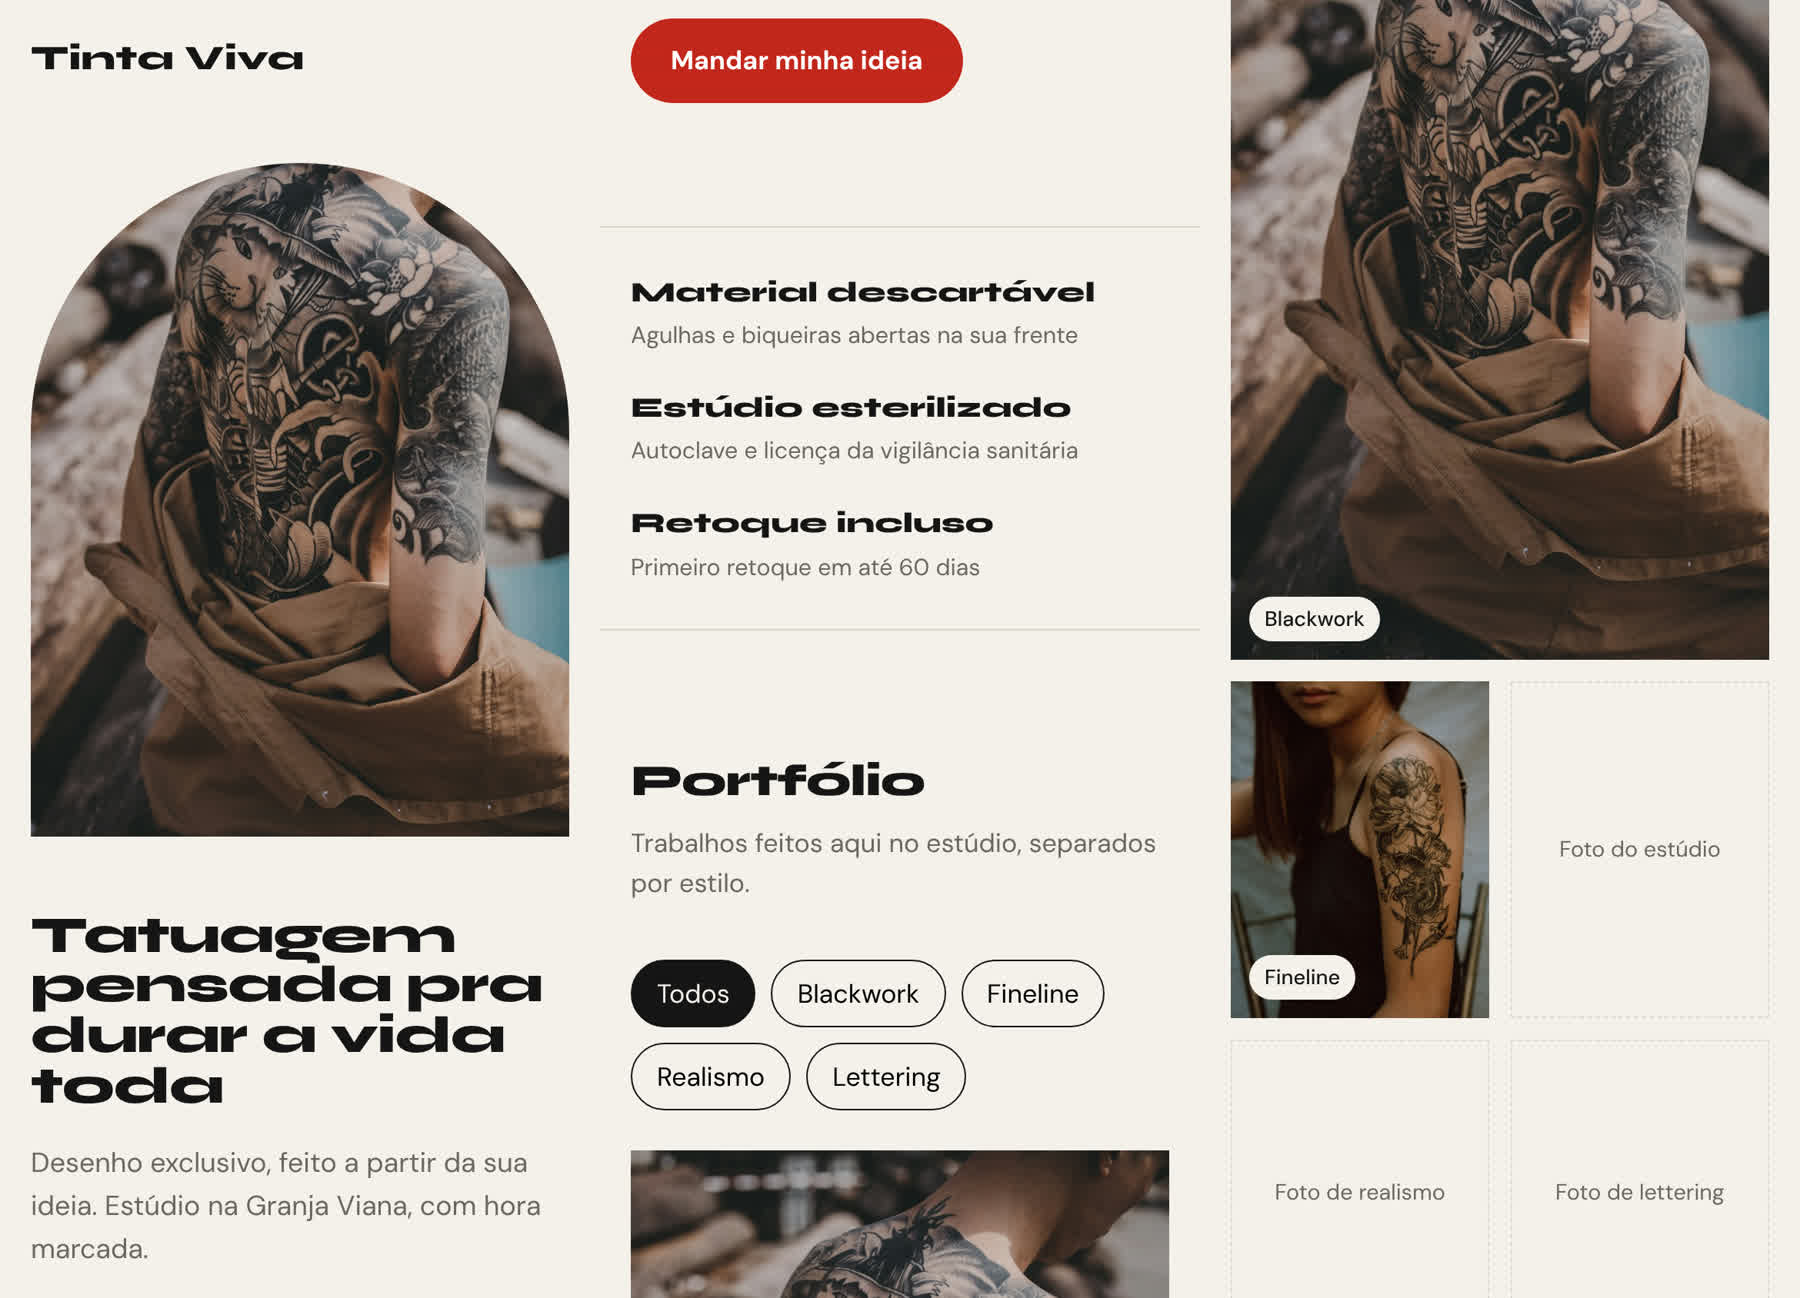
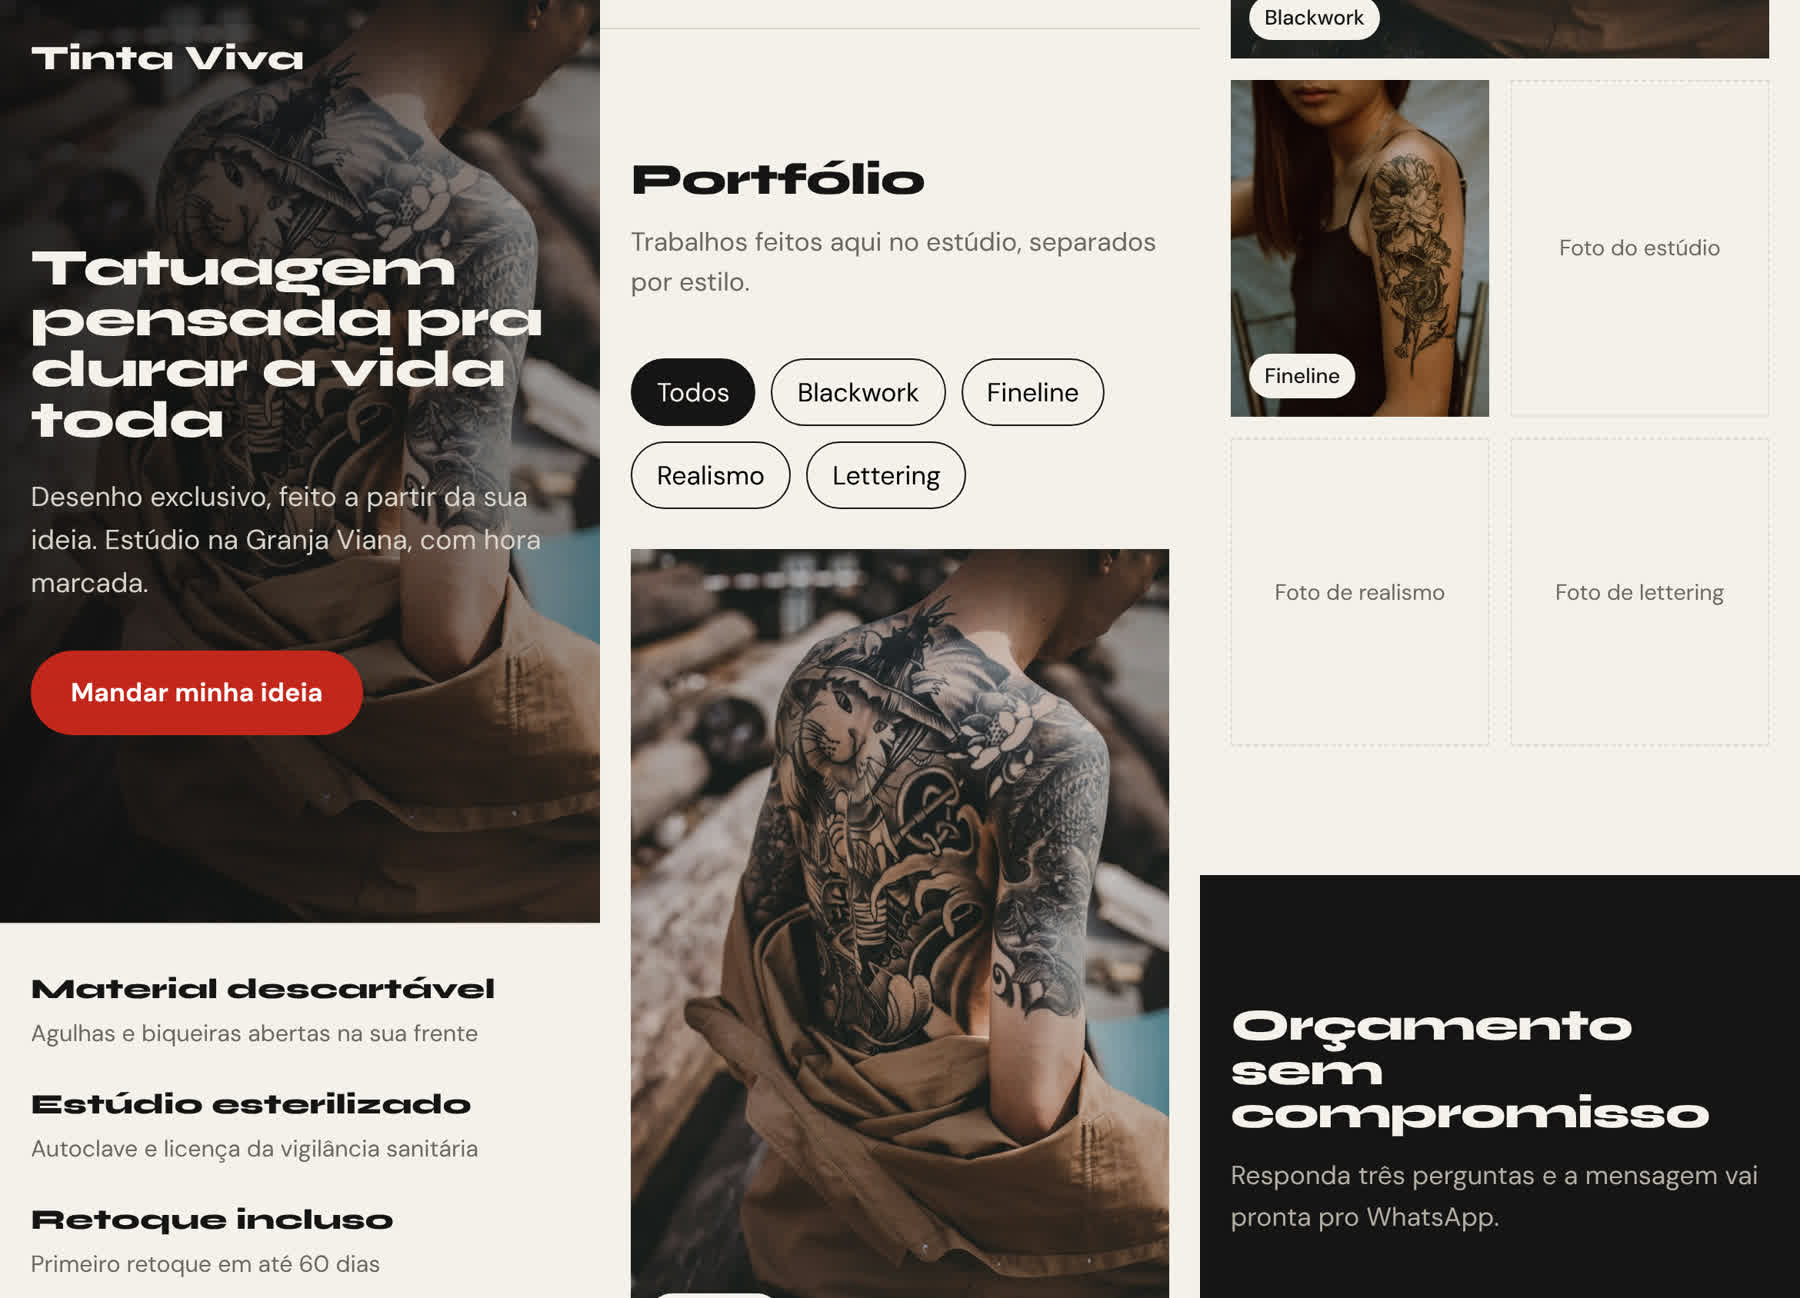
Foto da tatuagem como fundo do topo
Claude-Session: https://claude.ai/code/session_01VVFaYFBazfBerGM9xmHanA

diff --git a/previas/modelos/tatuagem.html b/previas/modelos/tatuagem.html
@@ -17,10 +17,12 @@ a{color:inherit}img{max-width:100%;display:block}
 .menu{display:flex;gap:28px}.menu a{text-decoration:none}
 .btn{display:inline-block;background:var(--tinta);color:var(--papel);text-decoration:none;font-weight:700;padding:14px 26px;border-radius:999px;border:0;font:inherit;font-weight:700;cursor:pointer}
 .btn.vermelho{background:var(--carimbo);color:#fff}
-.hero .in{display:grid;grid-template-columns:1fr 1fr;gap:48px;align-items:center;padding-block:30px 80px}
+.hero{position:relative;min-height:680px;display:grid;align-items:center;color:var(--papel);background:#151515 url("https://images.unsplash.com/photo-1611501275019-9b5cda994e8d?w=1800&q=70") center 30%/cover}
+.hero::before{content:"";position:absolute;inset:0;background:linear-gradient(90deg,rgba(15,15,15,.88) 0%,rgba(15,15,15,.55) 55%,rgba(15,15,15,.15) 100%)}
+.hero .in{position:relative;width:100%;padding-block:40px 80px}
+.hero .in>div{max-width:560px}
 .hero h1{font-family:var(--d);font-weight:800;font-size:clamp(2.1rem,8vw,4.2rem);line-height:.98;margin:0 0 20px;letter-spacing:-.02em}
-.hero p{max-width:34ch;color:var(--cinza);margin:0 0 30px;font-size:1.12rem}
-.hero img{aspect-ratio:4/5;object-fit:cover;width:100%;border-radius:200px 200px 0 0}
+.hero p{max-width:34ch;color:#d9d4ca;margin:0 0 30px;font-size:1.12rem}
 .confia{border-block:1px solid var(--linha)}
 .confia .in{display:grid;grid-template-columns:repeat(3,1fr);gap:20px;padding-block:28px}
 .confia b{display:block;font-family:var(--d);font-size:1.15rem}.confia span{color:var(--cinza);font-size:.95rem}
@@ -49,18 +51,17 @@ footer .in{display:flex;justify-content:space-between;flex-wrap:wrap;gap:20px;pa
 .exemplo{font-size:.85rem;color:var(--cinza)}
 :focus-visible{outline:2px solid var(--carimbo);outline-offset:3px}
 .hero .in>*,.orc .in>*{min-width:0}
-@media (max-width:860px){.menu,.topo .btn{display:none}.hero .in,.orc .in{grid-template-columns:1fr}.hero img{order:-1;max-height:520px}.galeria{grid-template-columns:1fr 1fr}.galeria .grande{grid-column:span 2;grid-row:auto}.confia .in{grid-template-columns:1fr}}
+@media (max-width:860px){.menu,.topo .btn{display:none}.hero .in,.orc .in{grid-template-columns:1fr}.hero{min-height:600px;background-position:62% 30%}.galeria{grid-template-columns:1fr 1fr}.galeria .grande{grid-column:span 2;grid-row:auto}.confia .in{grid-template-columns:1fr}}
 </style>
 </head>
 <body>
-<header class="topo"><div class="in"><a class="marca" href="#">Tinta Viva</a><nav class="menu"><a href="#portfolio">Portfólio</a><a href="#orcamento">Orçamento</a><a href="#contato">Contato</a></nav><a class="btn" href="#orcamento">Pedir orçamento</a></div></header>
-<section class="hero" style="padding:0"><div class="in">
+<header class="topo" style="position:absolute;inset:0 0 auto;z-index:2;color:#f4f1ea"><div class="in"><a class="marca" href="#">Tinta Viva</a><nav class="menu"><a href="#portfolio">Portfólio</a><a href="#orcamento">Orçamento</a><a href="#contato">Contato</a></nav><a class="btn" style="background:#f4f1ea;color:#151515" href="#orcamento">Pedir orçamento</a></div></header>
+<section class="hero" style="padding:0;padding-top:76px"><div class="in">
   <div>
     <h1>Tatuagem pensada pra durar a vida toda</h1>
     <p>Desenho exclusivo, feito a partir da sua ideia. Estúdio na Granja Viana, com hora marcada.</p>
     <a class="btn vermelho" href="#orcamento">Mandar minha ideia</a>
   </div>
-  <img src="https://images.unsplash.com/photo-1611501275019-9b5cda994e8d?w=1000&q=70" alt="Braço com tatuagem grande em preto e cinza">
 </div></section>
 
 <div class="confia"><div class="in">
